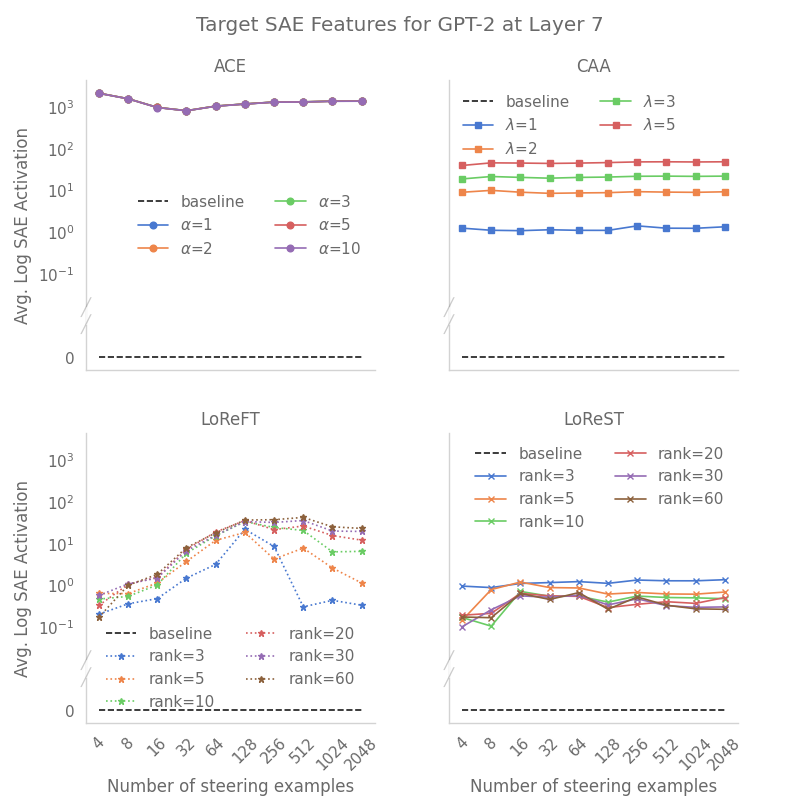
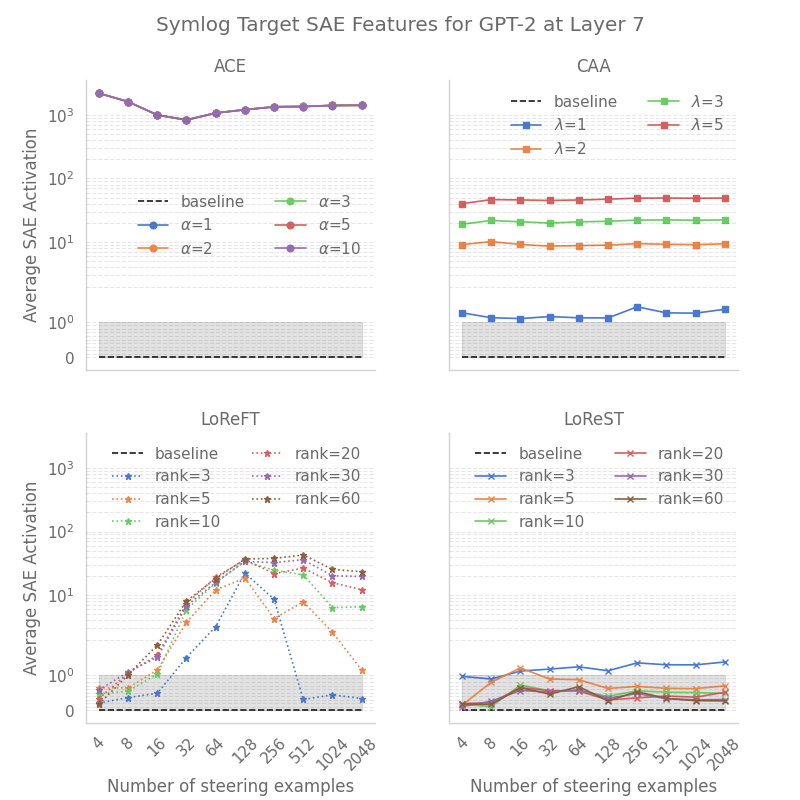
Analysis of target features

diff --git a/chapters/results.tex b/chapters/results.tex
@@ -15,6 +15,7 @@
 \emph{This provides potential further avenues of research and implications of superposition \Sref{sec:sae} on steering adaptors.}
 
 \section{Steering Clear Reproduction}
+\label{sec:steering-clear-res}
 
 \begin{figure}
     \centering
@@ -67,16 +68,20 @@ This behaviour is matched in \citet{steering-clear}.
 Overall, the results suggest that the analysis by \citet{steering-clear} are sound though an exact replication was not achieved.
 This also suggests some expectations for the prompt pairs environment (described in \Sref{sec:prompt-pairs}).
 In particular
-\begin{itemize}[nolistsep]
+\begin{enumerate}[nolistsep]
     \item Affine methods will perform consistently across the number of examples used, though minor variation may occur.
     \item Low rank methods will increase with the number examples eventually plateauing.
     \item LoReST is likely to achieve the best performance.
-\end{itemize}
+\end{enumerate}
 
 \section{Prompt Pairs}
 \label{sec:prompt-pairs-res}
 
 \subsection{Quantitative Analysis}
+
+The three quantitative metrics discussed in \Sref{sec:prompt-pairs} can be split into two categories: the activation of the SAE features, the semantic similarity of the generated completions.
+As there is no notion of accuracy akin to \citet{steering-clear} the closest comparison comes from the activation of SAE features.
+Though the domains are different the same trends that were seen in \Sref{sec:steering-clear-res} should be seen in this new setting.
 
 \subsubsection{SAE Feature Activation}
 
@@ -87,11 +92,72 @@ In particular
     \caption{
         The average activation of target SAE features at the model completion tokens.
         This represents how well the adaptor positively changed the models representation, \emph{higher} values are better.
-        The y axis is a log-plot with discontinuity to demonstrate that the baseline model does not activate on the target features.
+        The y axis is a symmetric logarithm scale where the range $[0,1]$ is linear, this section is highlighted in grey.
         The same range of examples is used across all adaptors.
     }
     \label{fig:gpt-pp-target}
 \end{figure}
+
+\Fref{fig:gpt-pp-target} presents the results of the first metric, the average activation of the target SAE features.
+As discussed in \Sref{sec:prompt-pairs} the target SAE features are the SAE features that had the highest, average activation across all positive examples.
+For this reason, a successful adaptor should increase the activation of these SAE features from the model with no intervention.
+
+The figure uses a symmetric logarithm plot so that the 4 methods can be compared across the same scale even though their SAE activations are orders of magnitude different.
+The symmetric logarithm is used as the model achieves approximately 0 activation in instances which would cause issues with a standard log plot.
+The linear region of the plot is highlighted in gray and a horizontal grid is provided to demonstrate the difference.
+
+From the figure it is clear that all methods provide some level of improvement regardless of hyperparameter.
+However, the results presented do not precisely follow those of \citet{steering-clear} or the hypotheses suggested in \Sref{sec:steering-clear-res}.
+The primary outliers are affine concept editting (ACE) \citep{ace} and low-rank representation steering (LoReST) \citep{steering-clear}.
+
+\smalltitle{contrastive activation addition (CAA) \citep{caa}} behaves according to the first hypothesis in \Sref{sec:steering-clear-res} and matches the behaviour in the steering clear environment \Sref{sec:steering-clear}.
+There is a clear increase in effectiveness as the hyperparemeter increases and the performance is constant across the number examples with minor fluctuations.
+
+In the case of $\lambda = 5$ the adaptor achieves an average SAE activation of $46.7 \pm 7.8$ across the range of training examples.
+In the case of $\lambda = 1$ the adaptor achieves an average of $1.2 \pm 0.01$.
+This demonstrates a very consistent value across the number of examples regardless of hyperparameter.
+However, the larger the parameter the greater the variance in the exact SAE feature activation.
+
+In comparison to CAA in \citet{steering-clear}, presented in \Fref{fig:steering-clear}, the same behaviour is observed.
+A consistent value across the number of steering examples with a clear threshold above $\lambda = 1$.
+This suggests that in unseen examples the CAA adaptor has to overcompensate and perturb the representation further in representation space than what was learnt.
+
+\smalltitle{affine concept editting (ACE) \citep{ace}} does not behave as expected or in line with the findings presented in \Sref{sec:steering-clear-res}.
+The hyperparameter does not change the target activation significantly and across trained examples the average activation value decreases.
+The method, however, has the highest average target activation by an order of magnitude compared to the next best adaptor.
+This is accompanied by the largest variance across the adaptors, at its best ACE achieves a feature activation of $2187$ but has a standard deviation of $2912$.
+This variance is consistent across the range of training examples.
+The problem of variability across all the adaptors is discussed further in \Sref{sec:variability}.
+
+Given that \citet{ace} demonstrate impressive performance of ACE on Llama 3 \citep{llama3} and the comparable performance of ACE and CAA in \Fref{fig:steering-clear} it is likely that the task, the model or the metric are ill suited to the adaptor.
+The immergent properties present in larger models such as Llama 3 \citep{llama3} and GPT 5 \citep{gpt-5} are not as prominent in the smaller GPT 2 \citep{gpt-2} model.
+It is possible that across positive and negative examples there is not a clear, meaningful baseline from which ACE can consistently steer from.
+This could be due to the completions involving free-text answers that have a range of interpretations that may not align with the desired interpretation.
+\textcolor{red}{Ablation studies into this behaviour have not been carried out ... how easy would it be to do this?}
+
+\smalltitle{Low-rank representation finetuning (LoReFT) \citep{reft}} behaves according to \citet{steering-clear} and the second hypothesis in \Sref{sec:steering-clear-res}. In particular there is a clear increase in target feature activation as the number of examples increases until a threshold point from which the adaptor does not improve.
+
+In the majority of hyperparameter choices the best performance occurred between 128 and 512 examples.
+This does not line up with the predictions of \citet{steering-clear} who found that the point of best performance occurred when the number of examples matched the activation dimension.
+In \Fref{fig:gpt-pp-target} the activation dimension of GPT2 is 756 \citep{saelens} compared to the optimal performance occurring at 128-512 examples.
+
+The key differences between the toy setup and this environment is the added complexity of superposition \Sref{sec:sae}.
+However, this would suggest that superposition \emph{decreases} the number of required examples to successfully steer.
+Another possibility is the rank of the adaptor is too small to accurately steer the model.
+This is supported by the fact that the average feature activation decreases rather than plateaus similar to the small rank examples in \Fref{fig:steering-clear} (see $rank=1, 2$).
+A deeper analysis of the role of the rank is discussed further in \Sref{sec:rank-res}.
+
+LoReFT at its optimal is comparable to CAA achieving an average feature activation of $42.8 \pm 37.2$ in comparison to CAA with $49.3 \pm 26.3$.
+However, in comparison to CAA, LoReFT requires careful tuning of the hyperparameter and the number of examples provided.
+This behaviour is seen both in this realistic environment and the toy environment \Sref{sec:steering-clear-res}.
+
+\smalltitle{Low-rank representation steering (LoReST) \citep{steering-clear}} does not behave as hypothesised in \Sref{sec:prompt-pairs-res} nor follow the trend presented in \citet{steering-clear}.
+In comparison to \Fref{fig:steering-clear} there is no clear increase in the chosen metric as the number of examples increase.
+Furthermore, the optimal rank appears to be $3$ rather than the larger ranks as anticipated.
+Even the optimal rank of $3$ appears to perform worse that CAA with LoReST's average of $1.17 \pm 0.03$ compared to $1.21 \pm 0.01$ for CAA.
+
+From \Fref{fig:steering-clear} it may be expected that the exact rank of LoReST has limited effect on the performance of the adaptor.
+However, the results in \Fref{fig:steering-clear} suggest that there is a hyperparameter threshold above which the adaptor performs similarly \emph{but} higher values are not necessarily better.
 
 \begin{figure}
     \centering
@@ -100,14 +166,22 @@ In particular
     \caption{
         The average activation of unrelated SAE features at the model completion tokens.
         This represents how well the adaptor did not interfere, \emph{lower} values are better.
-        The y axis is a log-plot with discontinuity to demonstrate that some adaptors .
+        The y axis is a symmetric logarithm scale where the range $[0,1]$ is linear, this section is highlighted in grey.
+        This demonstrates that all but ACE achieve 0 interference in some instances.
         The same range of examples is used across all adaptors.
     }
     \label{fig:gpt-pp-unrelated}
 \end{figure}
 
+Unlike the other adaptors presented here LoReST has not be thoroughly applied to large language models (LLMs).
+It is possible that this approach, though based on adaptors such as LoReFT, is not suitable.
+\emph{However}, as demonstrated in both \Fref{fig:gpt-pp-unrelated} and \Sref{sec:qual} the seemingly poor performance of LoReST suggests that feature activation alone is a poor metric for assessing success of a steering adaptor.
+
 \subsubsection{The Importance of Rank}
 \label{sec:rank-res}
+
+\subsubsection{The Issue with Variability}
+\label{sec:variability}
 
 \subsubsection{Semantic Similarity}
 
@@ -124,5 +198,4 @@ In particular
 \end{figure}
 
 \subsection{Qualitative Analysis}
-
-\subsection{From and To}
+\label{sec:qual}
